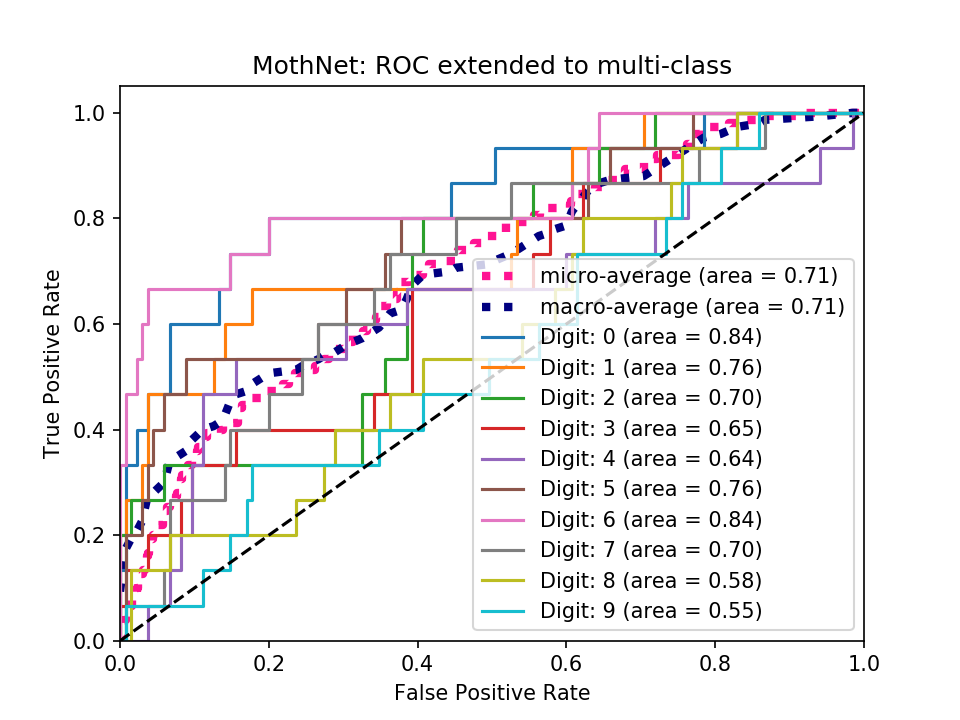
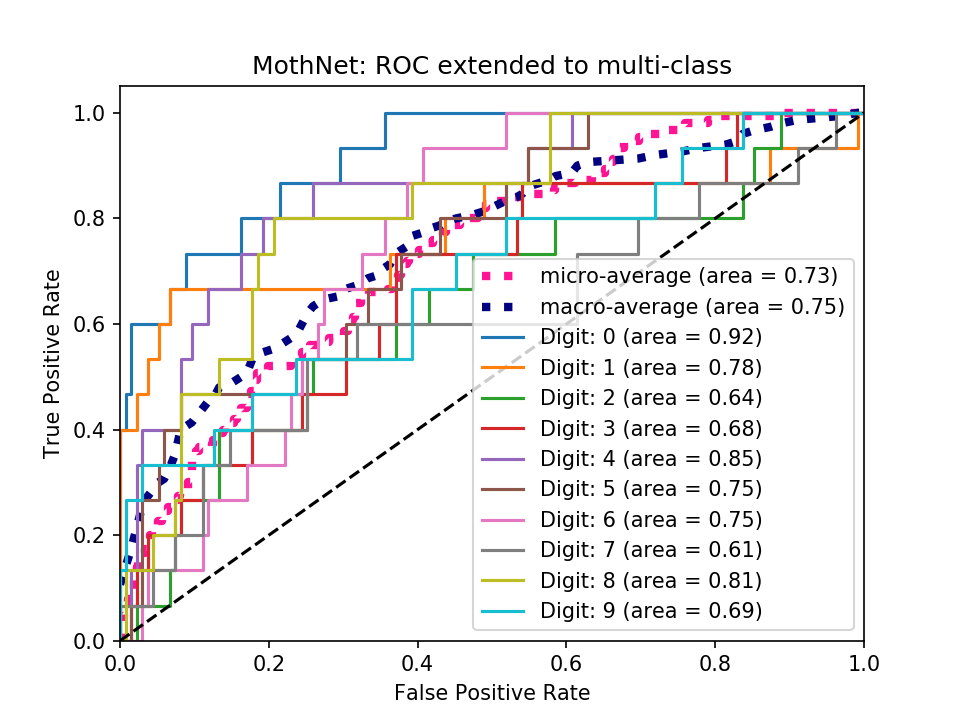
finished converting to class

diff --git a/moth_net.py b/moth_net.py
@@ -4,8 +4,6 @@ print("\nWARNING: This package is still under development.")
 print("Use procedural version by running `$ python runMothLearnerMNIST.py` from the parent directory.\n")
 
 # import packages
-import time
-runStart = time.time() # time execution duration
 import numpy as np
 import os
 import copy # for deep copy of nested lists
@@ -79,17 +77,10 @@ class MothNet:
         #-------------------------------------------------------------------------------
         self.SCREEN_SIZE = (1920, 1080) # screen size (width, height)
 
-        # use_existing_conn_matrices = False
-        ## if True, load 'matrixParamsFilename', which includes filled-in connection matrices
-        ## if False, generate new moth from template in params.py
-
-        # matrix_params_filename = 'sampleMothModelParams'
-        ## dict with all info, including connection matrices, of a particular moth
-
         self.NUM_RUNS = 1 # how many runs you wish to do with this moth or moth template,
         # each run using random draws from the mnist set
 
-        self.GOAL  = 15
+        self.GOAL = 15
         # defines the moth's learning rates, in terms of how many training samples per
         # class give max accuracy. So "GOAL = 1" gives a very fast learner.
         # if GOAL == 0, the rate parameters defined the template will be used as-is
@@ -99,15 +90,13 @@ class MothNet:
         self.NUM_SNIFFS = 1 # (try 2) number of exposures each training sample
 
         # nearest neighbors
-        self.RUN_NEAREST_NEIGHBORS = True # this option requires the sklearn library be installed
         self.NUM_NEIGHBORS = 1 # optimization param for nearest neighbors
-        # Suggested values: TR_PER_CLASS ->
+        # Suggested values:
         #	NUM_NEIGHBORS:  1,3,5 -> 1;  (10, 20, 50) -> 1 or 3;  100 -> 3; 500 + -> 5
 
         # SVM
-        self.RUN_SVM = True # this option requires the sklearn library be installed
         self.BOX_CONSTRAINT = 1e1 # optimization parameter for svm
-        # Suggested values: TR_PER_CLASS ->
+        # Suggested values:
         #	BOX_CONSTRAINT:  1 -> NA; 3 -> 1e4; 5 -> 1e0 or 1e1; 10 -> 1e-1,
         #					20 -> 1e-4 or 1e-5, 50 -> 1e-5 ; 100+ -> 1e-7
 
@@ -129,14 +118,6 @@ class MothNet:
         #-------------------------------------------------------------------------------
 
         # Test parameters for compatibility
-        if self.RUN_NEAREST_NEIGHBORS or self.RUN_SVM:
-        	##TEST to see if sklearn is installed,
-        	try:
-        	    import sklearn
-        	except ImportError:
-        	    print('sklearn is not installed, and it is required to run ML models.\n' + \
-        			"Install it or set RUN_NEAREST_NEIGHBORS and RUN_SVM to 'False'.")
-
         if self.SHOW_ACC_PLOTS or self.SHOW_TIME_PLOTS:
         	##TEST that directory string is not empty
         	if not self.RESULTS_FOLDER:
@@ -269,14 +250,14 @@ class MothNet:
         Subsample the dataset for this simulation,
         then build train and val feature matrices and class label vectors.
 
-        Returns: train_X, val_X, train_y, val_y
+        Returns: train_X, test_X, train_y, test_y
         '''
 
         # X = n x numberPixels;  Y = n x 1, where n = 10*TR_PER_CLASS.
         train_X = np.zeros((10*self.TR_PER_CLASS, self._feat_array.shape[0]))
-        val_X = np.zeros((10*self._val_per_class, self._feat_array.shape[0]))
+        test_X = np.zeros((10*self._val_per_class, self._feat_array.shape[0]))
         train_y = np.zeros((10*self.TR_PER_CLASS, 1))
-        val_y = np.zeros((10*self._val_per_class, 1))
+        test_y = np.zeros((10*self._val_per_class, 1))
 
         # populate the labels one class at a time
         for i in self._class_labels:
@@ -286,11 +267,11 @@ class MothNet:
             train_X[i*self.TR_PER_CLASS:(i+1)*self.TR_PER_CLASS,:] = temp.T
             temp = digit_queues[:,self._val_per_class+self.TR_PER_CLASS: \
                 2*self._val_per_class+self.TR_PER_CLASS,i]
-            val_X[i*self._val_per_class:(i+1)*self._val_per_class,:] = temp.T
+            test_X[i*self._val_per_class:(i+1)*self._val_per_class,:] = temp.T
             train_y[i*self.TR_PER_CLASS:(i+1)*self.TR_PER_CLASS] = i
-            val_y[i*self._val_per_class:(i+1)*self._val_per_class,:] = i
+            test_y[i*self._val_per_class:(i+1)*self._val_per_class,:] = i
 
-        return train_X, val_X, train_y, val_y
+        return train_X, test_X, train_y, test_y
 
     def load_moth(self):
         '''
@@ -356,17 +337,17 @@ class MothNet:
         Calculate the classification accuracy of MothNet on MNIST dataset.
         Prints:
             1. output_naive_log_loss: Baseline accuracy using log-likelihoods over all ENs
-            1. output_trained_log_loss: Post-training accuracy using log-likelihoods over all ENs
-            1. output_naive_thresholding: Baseline accuracy using single EN thresholding
-            1. output_trained_thresholding: Baseline accuracy using single EN thresholding
+            2. output_trained_log_loss: Post-training accuracy using log-likelihoods over all ENs
+            3. output_naive_thresholding: Baseline accuracy using single EN thresholding
+            4. output_trained_thresholding: Post-training accuracy using single EN thresholding
         Returns:
-            None
+            1. output_trained_thresholding: Post-training accuracy using single EN thresholding
+            2. output_trained_log_loss: Post-training accuracy using log-likelihoods over all ENs
 
         Copyright (c) 2019 Adam P. Jones (ajones173@gmail.com) and Charles B. Delahunt (delahunt@uw.edu)
         MIT License
         '''
         from modules.classify import classify_digits_log_likelihood, classify_digits_thresholding
-        from modules.show_figs import show_roc_curves
 
         # for baseline accuracy function argin, substitute pre- for post-values in EN_resp_trained:
         EN_resp_naive = copy.deepcopy(EN_resp_trained)
@@ -398,8 +379,172 @@ class MothNet:
     		'by class: {}%'.format(np.round(output_trained_thresholding['acc_perc'])))
 
         if self.SHOW_ROC_PLOTS:
+            from modules.show_figs import show_roc_curves
             # compute macro-average ROC curve
             show_roc_curves(output_trained_log_loss['fpr'], output_trained_log_loss['tpr'],
         		output_trained_log_loss['roc_auc'], self._class_labels,
         		title_str='MothNet',
                 images_filename=self.RESULTS_FOLDER + os.sep + self.RESULTS_FILENAME)
+
+        self.output_trained_thresholding = output_trained_thresholding
+        self.output_trained_log_loss = output_trained_log_loss
+
+    def score_knn(self, train_X, train_y, test_X, test_y):
+        '''
+        Calculate the classification accuracy of KNN on MNIST dataset.
+        Parameters:
+            1. train_X: Feature matrix training samples
+            2. train_y: Labels for training samples
+            3. test_X: Feature matrix testing samples
+            4. test_y: Labels for testing samples
+        Prints:
+            1. output_naive_log_loss: Baseline accuracy using log-likelihoods over all ENs
+            2. output_trained_log_loss: Post-training accuracy using log-likelihoods over all ENs
+            3. output_naive_thresholding: Baseline accuracy using single EN thresholding
+            4. output_trained_thresholding: Baseline accuracy using single EN thresholding
+        Returns:
+            self.output_trained_log_loss
+
+        Copyright (c) 2019 Adam P. Jones (ajones173@gmail.com) and Charles B. Delahunt (delahunt@uw.edu)
+        MIT License
+        '''
+
+        ##TEST to see if sklearn is installed,
+        try:
+            from sklearn.neighbors import KNeighborsClassifier as _KNeighborsClassifier
+        except ImportError:
+            print('sklearn is not installed, and it is required to run KNN models.\n')
+
+        neigh = _KNeighborsClassifier(n_neighbors=self.NUM_NEIGHBORS)
+        neigh.fit(train_X, train_y.ravel())
+        y_hat = neigh.predict(test_X)
+
+        # get probabilities
+        probabilities = neigh.predict_proba(test_X)
+
+        if self.SHOW_ROC_PLOTS:
+            from modules.classify import roc_multi
+            from modules.show_figs import show_roc_curves
+
+            # measure ROC AUC for each class
+            self.roc_knn = roc_multi(test_y.flatten(), probabilities)
+
+            # compute macro-average ROC curve
+            show_roc_curves(self.roc_knn['fpr'], self.roc_knn['tpr'],
+                self.roc_knn['roc_auc'], self._class_labels, title_str='KNN',
+				images_filename=self.RESULTS_FOLDER + os.sep + self.RESULTS_FILENAME)
+
+        # measure overall accuracy
+        nn_acc = neigh.score(test_X, test_y)
+
+        # measure accuracy for each class
+        class_acc = np.zeros_like(self._class_labels) # preallocate
+        for i in self._class_labels:
+            inds = np.where(test_y==i)[0]
+            class_acc[i] = np.round(100*np.sum( y_hat[inds]==test_y[inds].squeeze()) /
+                len(test_y[inds]) )
+
+        print('Nearest neighbor (k[# of neighbors]={}):\n'.format(self.NUM_NEIGHBORS),
+            'Trained Accuracy = {}%,'.format(np.round(100*nn_acc)),
+            'by class: {}% '.format(class_acc) )
+
+    def score_svm(self, train_X, train_y, test_X, test_y):
+        '''
+        Calculate the classification accuracy of SVM on MNIST dataset.
+        Parameters:
+            1. train_X: Feature matrix training samples
+            2. train_y: Labels for training samples
+            3. test_X: Feature matrix testing samples
+            4. test_y: Labels for testing samples
+        Prints:
+            1. output_naive_log_loss: Baseline accuracy using log-likelihoods over all ENs
+            2. output_trained_log_loss: Post-training accuracy using log-likelihoods over all ENs
+            3. output_naive_thresholding: Baseline accuracy using single EN thresholding
+            4. output_trained_thresholding: Baseline accuracy using single EN thresholding
+        Returns:
+            self.output_trained_log_loss
+
+        Copyright (c) 2019 Adam P. Jones (ajones173@gmail.com) and Charles B. Delahunt (delahunt@uw.edu)
+        MIT License
+        '''
+
+        ##TEST to see if sklearn is installed
+        try:
+            from sklearn import svm as _svm
+        except ImportError:
+            print('sklearn is not installed, and it is required to run KNN models.\n')
+
+        svm_clf = _svm.SVC(gamma='scale', C=self.BOX_CONSTRAINT, probability=True)
+        svm_clf.fit(train_X, train_y.ravel())
+        y_hat = svm_clf.predict(test_X)
+
+		# get probabilities
+        probabilities = svm_clf.predict_proba(test_X)
+
+        if self.SHOW_ROC_PLOTS:
+            from modules.classify import roc_multi
+            from modules.show_figs import show_roc_curves
+
+            # measure ROC AUC for each class
+            self.roc_svm = roc_multi(test_y.flatten(), probabilities)
+
+            # compute macro-average ROC curve
+            show_roc_curves(self.roc_svm['fpr'], self.roc_svm['tpr'],
+                self.roc_svm['roc_auc'], self._class_labels, title_str='KNN',
+				images_filename=self.RESULTS_FOLDER + os.sep + self.RESULTS_FILENAME)
+
+        # measure overall accuracy
+        svm_acc = svm_clf.score(test_X, test_y)
+
+        # measure accuracy for each class
+        class_acc = np.zeros_like(self._class_labels) # preallocate
+        for i in self._class_labels:
+            inds = np.where(test_y==i)[0]
+            class_acc[i] = np.round(100*np.sum(y_hat[inds]==test_y[inds].squeeze()) /
+                len(test_y[inds]))
+
+        print('Nearest neighbor (k[# of neighbors]={}):\n'.format(self.NUM_NEIGHBORS),
+            'Trained Accuracy = {}%,'.format(np.round(100*svm_acc)),
+            'by class: {}% '.format(class_acc))
+
+    def show_multi_roc(self, model_names, class_labels, images_filename=''):
+        '''
+            show_multi_roc(model_names, class_labels, images_filename)
+        '''
+        import matplotlib.pyplot as plt
+        from modules.show_figs import plot_roc_multi
+
+        if images_filename:
+            images_folder = os.path.dirname(images_filename)
+
+            # create directory for images (if doesnt exist)
+            if images_folder and not os.path.isdir(images_folder):
+                os.mkdir(images_folder)
+                print('Creating results directory: {}'.format(images_folder))
+
+        roc_dict_list = [self.output_trained_log_loss, self.roc_svm, self.roc_knn]
+
+        fig, axes = plt.subplots(1, len(roc_dict_list), figsize=(15,5), sharey=True)
+
+        y_ax_list = [True, False, False]
+        legend_list = [True, False, False]
+
+        for i in range(len(roc_dict_list)):
+            ax = axes[i]
+            fpr = roc_dict_list[i]['fpr']
+            tpr = roc_dict_list[i]['tpr']
+            roc_auc = roc_dict_list[i]['roc_auc']
+            title_str = model_names[i]
+
+            plot_roc_multi(ax, fpr, tpr, roc_auc, class_labels, title_str,
+                y_axis_label=y_ax_list[i], legend=legend_list[i])
+
+        fig.tight_layout()
+
+        # save plot
+        if os.path.isdir(images_folder):
+            roc_filename = images_filename + '.png'
+            fig.savefig(roc_filename, dpi=150)
+            print(f'Figure saved: {roc_filename}')
+        else:
+            print('ROC curves NOT SAVED!\nMake sure a valid directory path has been prepended to `images_filename`')

diff --git a/runMothLearnerMNIST.py b/runMothLearnerMNIST.py
@@ -362,12 +362,12 @@ for run in range(NUM_RUNS):
 		# get probabilities
 		probabilities = neigh.predict_proba(val_X)
 
-		# measure ROC AUC for each class
-		roc_knn = roc_multi(val_y.flatten(), probabilities)
-
 		if SHOW_ROC_PLOTS:
+			# measure ROC AUC for each class
+			knn_roc = roc_multi(val_y.flatten(), probabilities)
+
 			# compute macro-average ROC curve
-			show_roc_curves(roc_knn['fpr'], roc_knn['tpr'], roc_knn['roc_auc'], class_labels,
+			show_roc_curves(knn_roc['fpr'], knn_roc['tpr'], knn_roc['roc_auc'], class_labels,
 			 	title_str='KNN',
 				images_filename=RESULTS_FOLDER + os.sep + RESULTS_FILENAME)
 
@@ -398,12 +398,12 @@ for run in range(NUM_RUNS):
 		# get probabilities
 		probabilities = svm_clf.predict_proba(val_X)
 
-		# measure ROC AUC for each class
-		roc_svm = roc_multi(val_y.flatten(), probabilities)
-
 		if SHOW_ROC_PLOTS:
+			# measure ROC AUC for each class
+			svm_roc = roc_multi(val_y.flatten(), probabilities)
+
 			# compute macro-average ROC curve
-			show_roc_curves(roc_svm['fpr'], roc_svm['tpr'], roc_svm['roc_auc'], class_labels,
+			show_roc_curves(svm_roc['fpr'], svm_roc['tpr'], svm_roc['roc_auc'], class_labels,
 				title_str='SVM',
 				images_filename=RESULTS_FOLDER + os.sep + RESULTS_FILENAME)
 
@@ -422,7 +422,7 @@ for run in range(NUM_RUNS):
 	        'by class: {}% '.format(class_acc))
 
 	if RUN_NEAREST_NEIGHBORS and RUN_SVM:
-		show_roc_subplots([output_trained_log_loss, roc_svm, roc_knn], ['MothNet', 'SVM', 'KNN'],
+		show_roc_subplots([output_trained_log_loss, svm_roc, knn_roc], ['MothNet', 'SVM', 'KNN'],
 			class_labels,
 			images_filename=RESULTS_FOLDER + os.sep + RESULTS_FILENAME + '_ROC_multi')
 

diff --git a/main.py b/main.py
@@ -1,7 +1,11 @@
 #!/usr/bin/env python3
 from moth_net import MothNet
+import time
+import os
 
 def main():
+
+    runStart = time.time() # time execution duration
 
     # instantiate the MothNet object
     mothra = MothNet()
@@ -11,7 +15,7 @@ def main():
 
         # generate dataset
         digit_queues = mothra.load_MNIST()
-        train_X, val_X, train_y, val_y = mothra.train_test_split(digit_queues)
+        train_X, test_X, train_y, test_y = mothra.train_test_split(digit_queues)
 
         # load parameters
         moth_parameters = mothra.load_moth() # define moth model parameters
@@ -29,12 +33,21 @@ def main():
             screen_size=mothra.SCREEN_SIZE)
 
         # reveal scores
-        # print scores for MothNet
+        # score MothNet
         mothra.score_moth_on_MNIST(EN_resp_trained)
-        # # print scores for KNN
-        # mothra.score_knn(X_test, y_test)
-        # # print scores for SVM
-        # mothra.score_svm(X_test, y_test)
+        # score KNN
+        mothra.score_knn(train_X, train_y, test_X, test_y)
+        # score SVM
+        mothra.score_svm(train_X, train_y, test_X, test_y)
+
+        if mothra.SHOW_ROC_PLOTS:
+            mothra.show_multi_roc(['MothNet', 'SVM', 'KNN'], mothra._class_labels,
+            images_filename=mothra.RESULTS_FOLDER + os.sep + mothra.RESULTS_FILENAME + '_ROC_multi')
+
+    runDuration = time.time() - runStart
+    print('{} executed in {:.3f} minutes'.format(__file__, runDuration/60))
+    print()
+    print('         -------------All done-------------         ')
 
 if __name__ == "__main__":
     main()
